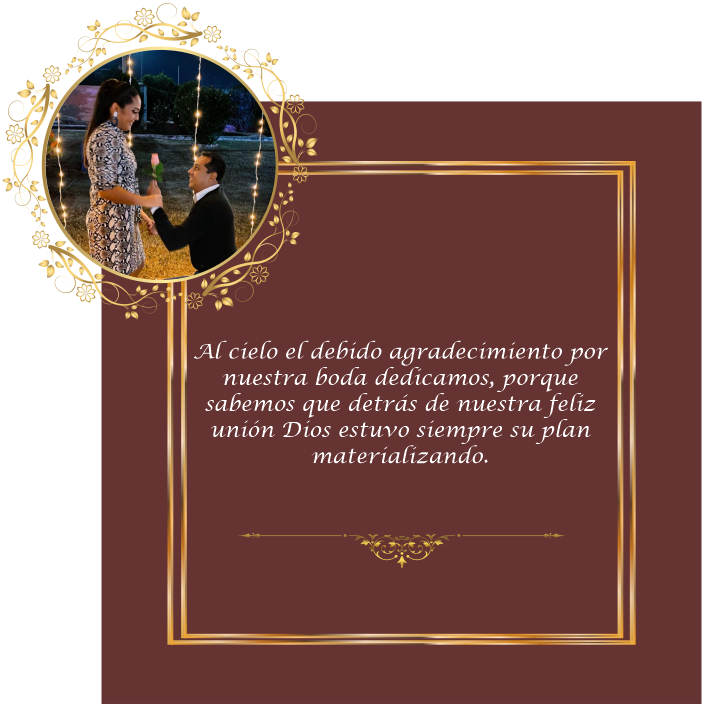
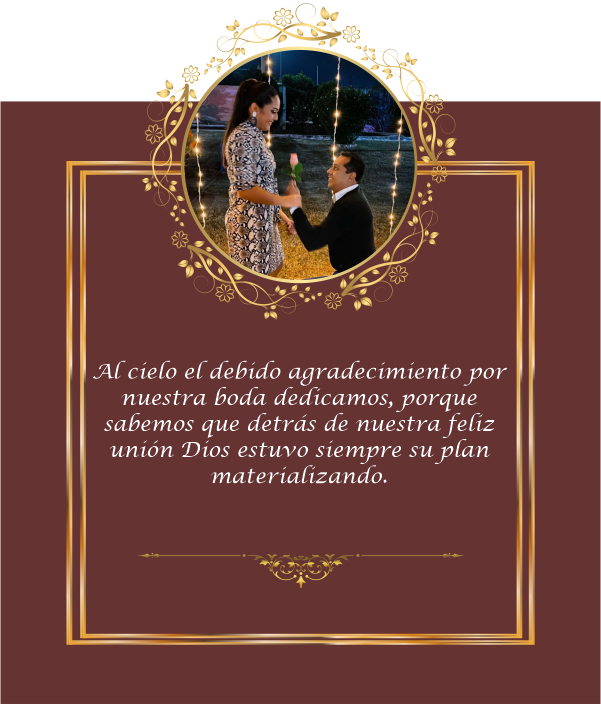
f

diff --git a/_vti_cnf/index.html b/_vti_cnf/index.html
@@ -1,13 +1,13 @@
 vti_encoding:SR|utf8-nl
-vti_timelastmodified:TR|23 Jun 2023 18:48:07 -0000
+vti_timelastmodified:TR|23 Jun 2023 18:54:16 -0000
 vti_extenderversion:SR|12.0.0.0
 vti_author:SR|MyP\\PC-1
 vti_modifiedby:SR|MyP\\PC-1
 vti_timecreated:TR|22 Jun 2023 22:47:55 -0000
 vti_title:SR|Nuesta boda.
 vti_backlinkinfo:VX|
-vti_nexttolasttimemodified:TW|23 Jun 2023 18:47:05 -0000
-vti_cacheddtm:TX|23 Jun 2023 18:48:07 -0000
+vti_nexttolasttimemodified:TW|23 Jun 2023 18:48:07 -0000
+vti_cacheddtm:TX|23 Jun 2023 18:54:16 -0000
 vti_filesize:IR|4372
 vti_cachedtitle:SR|Nuesta boda.
 vti_cachedbodystyle:SR|<body background="img/gris.jpg">

diff --git a/index.html b/index.html
@@ -107,7 +107,7 @@
 	<img alt="" src="img/ubi.png" height="800 px" width="800 px"/></div>
 </br></br>
 <div align="center">
-<img src="img/H1.png" alt="" height="800 px" width="800 px"/>
+<img src="img/H1.png" alt="" height="940 px" width="800 px"/>
 </div>
 </br></br>
 <div align="center">	
